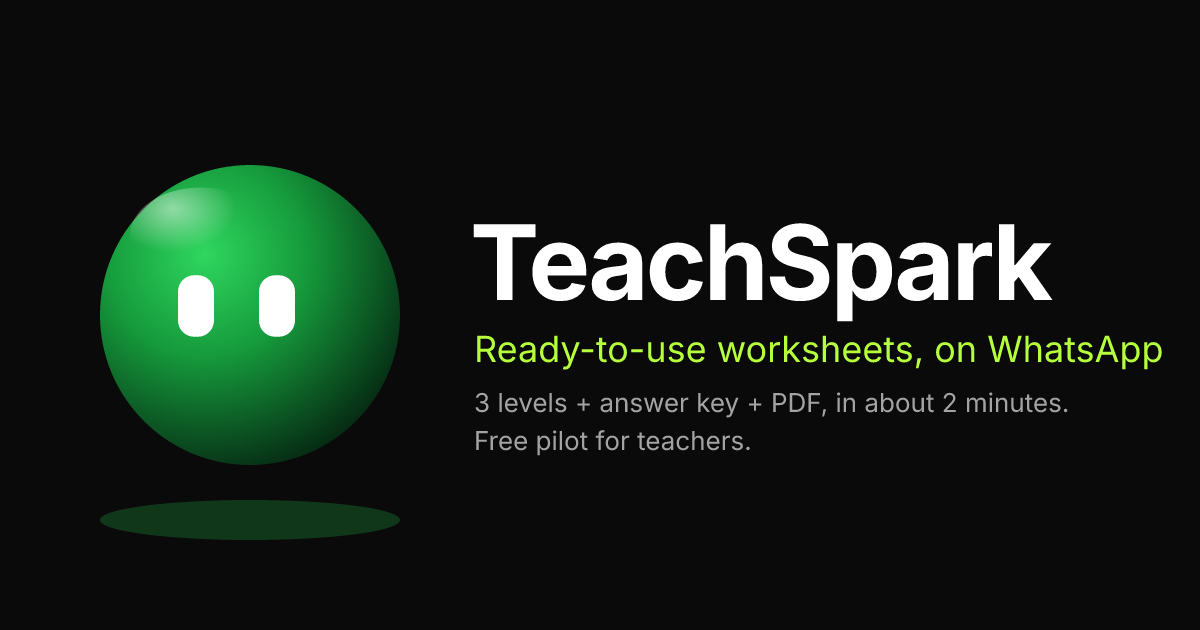
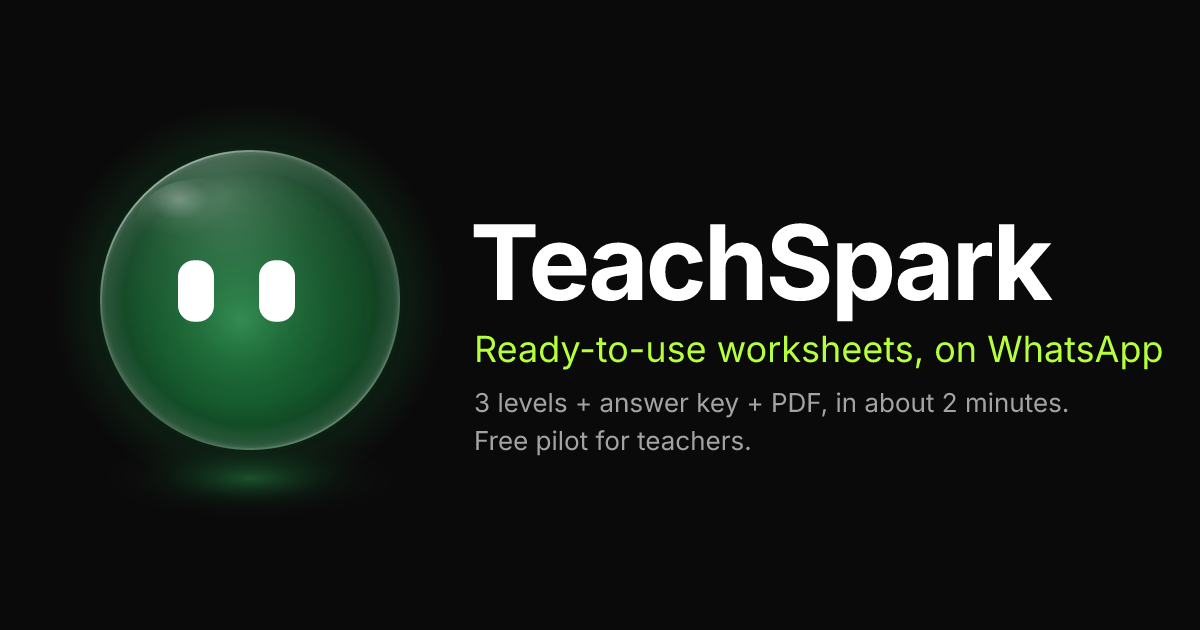
fix(nudges): arm the return nudge at activation, and stop discarding due nudges
Diagnosed from live production data: nudgesSent was 0 and only ONE nudge had
ever been scheduled across 10 teachers. Two separate faults, neither of them the
cron — the cron was running fine.

1. The nudge was armed only in completeSkillAndShare, which a teacher reaches
   only by answering BOTH the impact and the referral question. Most stop
   replying once they have the worksheet they came for. Live funnel: 6 received
   a worksheet, 2 answered impact, 1 answered referral. So one nudge existed and
   5 of 6 activated teachers could never be nudged at all. It is now armed at
   activation, guarded so it never overwrites a pending nudge or re-arms a sent
   one.

2. The sweep discarded the nudge for any teacher who was not IDLE, clearing
   nudgeDueAt and logging NOTHING. Every one of the 10 was parked in some
   AWAITING_* state, so the rule threw away every nudge that existed, invisibly —
   the database confirms the single scheduled nudge had been silently cleared.
   Being stalled mid-flow is exactly who a re-engagement nudge is for. The check
   is now on recent activity, not state: a nudge is already ~20h past her last
   message, so the only real risk is interrupting someone replying right now.
   That case DEFERS — reschedules and logs nudge_deferred — rather than dropping.

The paper-wizard carve-out stays: buildNudgeStep resets state to AWAITING_TOPIC,
which would throw away uploaded chapter photos.
[…]

Changed region(s): [[0.0617, 0.2413, 0.3392, 0.8746], [0.2775, 0.6032, 0.3083, 0.6635]]

diff --git a/scripts/brand-assets.ts b/scripts/brand-assets.ts
@@ -15,9 +15,71 @@ for (const f of FONT_FILES) if (!existsSync(f)) throw new Error(`missing font fi
 const BG = '#0a0a0a';
 const LIME = '#b6ff3b';
 
-/** Spark: the same gradients as web/src/components/spark/Spark.tsx, eyes looking slightly right. */
-function orb(cx: number, cy: number, r: number, id: string): string {
+/** The eyes, drawn identically in both variants. Offset right so the static orb looks alive. */
+function eyes(cx: number, cy: number, r: number): string {
   const ew = r * 0.24, eh = r * 0.41, rx = ew * 0.45;
+  return `
+  <rect x="${cx - r * 0.36 - ew / 2}" y="${cy - r * 0.06 - eh / 2}" width="${ew}" height="${eh}" rx="${rx}" fill="#fff"/>
+  <rect x="${cx + r * 0.18 - ew / 2}" y="${cy - r * 0.06 - eh / 2}" width="${ew}" height="${eh}" rx="${rx}" fill="#fff"/>`;
+}
+
+/**
+ * Translucent glass Spark, mirroring the gradients in web/src/components/spark/Spark.tsx so the
+ * link preview matches the page it links to. Offsets are expressed as fractions of `r`, which is
+ * how they map back: Spark's viewBox is 400 with r=150, so e.g. its halo at r=196 is 1.31r here.
+ *
+ * ONLY safe on a dark background. Every fill is partly transparent, so on transparency this
+ * renders as a faint smudge — which is why the icons below use the solid variant instead.
+ */
+function glassOrb(cx: number, cy: number, r: number, id: string): string {
+  return `
+  <defs>
+    <radialGradient id="${id}-body" cx="47%" cy="57%" r="96%">
+      <stop offset="0%" stop-color="#54ff92" stop-opacity=".44"/><stop offset="16%" stop-color="#2ecf66" stop-opacity=".38"/>
+      <stop offset="36%" stop-color="#179544" stop-opacity=".33"/><stop offset="60%" stop-color="#0d5b2b" stop-opacity=".30"/>
+      <stop offset="100%" stop-color="#0a2b18" stop-opacity=".32"/>
+    </radialGradient>
+    <radialGradient id="${id}-haze" cx="42%" cy="15%" r="72%">
+      <stop offset="0%" stop-color="#e8f4ec" stop-opacity=".26"/><stop offset="42%" stop-color="#95b8a4" stop-opacity=".10"/>
+      <stop offset="100%" stop-color="#000" stop-opacity="0"/>
+    </radialGradient>
+    <radialGradient id="${id}-edge" cx="50%" cy="50%" r="50%">
+      <stop offset="84%" stop-color="#e6fff0" stop-opacity="0"/><stop offset="96%" stop-color="#e6fff0" stop-opacity=".11"/>
+      <stop offset="100%" stop-color="#fff" stop-opacity=".24"/>
+    </radialGradient>
+    <linearGradient id="${id}-rim" x1="12%" y1="4%" x2="88%" y2="98%">
+      <stop offset="0%" stop-color="#f6fffa" stop-opacity=".62"/><stop offset="26%" stop-color="#a5e6bd" stop-opacity=".16"/>
+      <stop offset="60%" stop-color="#2c6f45" stop-opacity=".05"/><stop offset="86%" stop-color="#8fdcac" stop-opacity=".20"/>
+      <stop offset="100%" stop-color="#d8fbe6" stop-opacity=".34"/>
+    </linearGradient>
+    <radialGradient id="${id}-halo" cx="50%" cy="50%" r="50%">
+      <stop offset="55%" stop-color="#1cb14a" stop-opacity=".22"/><stop offset="100%" stop-color="#1cb14a" stop-opacity="0"/>
+    </radialGradient>
+    <radialGradient id="${id}-gloss" cx="32%" cy="24%" r="42%">
+      <stop offset="0%" stop-color="#fff" stop-opacity=".34"/><stop offset="55%" stop-color="#fff" stop-opacity=".06"/>
+      <stop offset="100%" stop-color="#fff" stop-opacity="0"/>
+    </radialGradient>
+    <radialGradient id="${id}-pool" cx="50%" cy="50%" r="50%">
+      <stop offset="0%" stop-color="#3ee071" stop-opacity=".30"/><stop offset="45%" stop-color="#17903f" stop-opacity=".14"/>
+      <stop offset="100%" stop-color="#000" stop-opacity="0"/>
+    </radialGradient>
+  </defs>
+  <circle cx="${cx}" cy="${cy}" r="${r * 1.31}" fill="url(#${id}-halo)"/>
+  <ellipse cx="${cx}" cy="${cy + r * 1.19}" rx="${r * 0.95}" ry="${r * 0.26}" fill="url(#${id}-pool)"/>
+  <circle cx="${cx}" cy="${cy}" r="${r}" fill="url(#${id}-body)"/>
+  <circle cx="${cx}" cy="${cy}" r="${r}" fill="url(#${id}-haze)"/>
+  <circle cx="${cx}" cy="${cy}" r="${r}" fill="url(#${id}-edge)"/>
+  <circle cx="${cx}" cy="${cy}" r="${r * 0.993}" fill="none" stroke="url(#${id}-rim)" stroke-width="${Math.max(1, r * 0.011)}"/>
+  <ellipse cx="${cx - r * 0.32}" cy="${cy - r * 0.52}" rx="${r * 0.44}" ry="${r * 0.29}" fill="url(#${id}-gloss)"/>
+  ${eyes(cx, cy, r)}`;
+}
+
+/**
+ * Solid Spark for the app icons. Deliberately NOT the glass treatment: the regular PWA icons are
+ * rendered on transparency and have to stay legible at 48px on a home screen, where a translucent
+ * sphere reads as a smudge.
+ */
+function solidOrb(cx: number, cy: number, r: number, id: string): string {
   return `
   <defs>
     <radialGradient id="${id}-body" cx="35%" cy="30%" r="75%"><stop offset="0%" stop-color="#2fd65f"/><stop offset="45%" stop-color="#169a3c"/><stop offset="100%" stop-color="#062b14"/></radialGradient>
@@ -25,8 +87,7 @@ function orb(cx: number, cy: number, r: number, id: string): string {
   </defs>
   <circle cx="${cx}" cy="${cy}" r="${r}" fill="url(#${id}-body)"/>
   <ellipse cx="${cx - r * 0.33}" cy="${cy - r * 0.53}" rx="${r * 0.47}" ry="${r * 0.32}" fill="url(#${id}-gloss)"/>
-  <rect x="${cx - r * 0.36 - ew / 2}" y="${cy - r * 0.06 - eh / 2}" width="${ew}" height="${eh}" rx="${rx}" fill="#fff"/>
-  <rect x="${cx + r * 0.18 - ew / 2}" y="${cy - r * 0.06 - eh / 2}" width="${ew}" height="${eh}" rx="${rx}" fill="#fff"/>`;
+  ${eyes(cx, cy, r)}`;
 }
 
 function render(svg: string, width: number, out: string): void {
@@ -41,8 +102,7 @@ mkdirSync(OUT_DIR, { recursive: true });
 // 1) Open Graph cover 1200x630
 const og = `<svg xmlns="http://www.w3.org/2000/svg" width="1200" height="630" viewBox="0 0 1200 630">
   <rect width="1200" height="630" fill="${BG}"/>
-  <ellipse cx="250" cy="520" rx="150" ry="20" fill="#1f8a3a" opacity=".35"/>
-  ${orb(250, 315, 150, 'og')}
+  ${glassOrb(250, 300, 150, 'og')}
   <text x="470" y="300" font-family="Inter" font-weight="700" font-size="104" fill="#fff" letter-spacing="-3">TeachSpark</text>
   <text x="474" y="362" font-family="Inter" font-weight="400" font-size="36" fill="${LIME}">Ready-to-use worksheets, on WhatsApp</text>
   <text x="474" y="412" font-family="Inter" font-weight="400" font-size="26" fill="#a3a3a3">3 levels + answer key + PDF, in about 2 minutes.</text>
@@ -59,7 +119,7 @@ const iconSvg = (size: number, padded: boolean) => {
   const r = padded ? size * 0.3 : size * 0.46;
   return `<svg xmlns="http://www.w3.org/2000/svg" width="${size}" height="${size}" viewBox="0 0 ${size} ${size}">
   ${padded ? `<rect width="${size}" height="${size}" fill="${BG}"/>` : ''}
-  ${orb(size / 2, size / 2, r, 'ic')}
+  ${solidOrb(size / 2, size / 2, r, 'ic')}
 </svg>`;
 };
 render(iconSvg(192, false), 192, resolve(OUT_DIR, 'pwa-192x192.png'));

diff --git a/test/nudges.test.ts b/test/nudges.test.ts
@@ -45,13 +45,34 @@ describe('createNudgePass', () => {
     expect(after?.nudgeDueAt).toEqual(PAST); // preserved, not cleared
     expect((deps.messenger as FakeMessenger).sent).toHaveLength(0);
   });
-  it('skips teachers who are mid-conversation (clears the due nudge)', async () => {
+  it('nudges a teacher stalled mid-flow instead of discarding her nudge', async () => {
+    // This used to drop the nudge for ANY non-IDLE teacher. In the live pilot all 10 teachers were
+    // parked in some AWAITING_* state, so that rule silently discarded every nudge there was.
+    // Being stalled mid-flow is precisely who a re-engagement nudge is for.
     const deps = makeDeps();
-    const t = await deps.teachers.create({ waFrom: 'whatsapp:+912', waId: null, profileName: null, now: PAST });
-    await deps.teachers.update(t.id, { state: 'AWAITING_TOPIC', grade: 'g', subject: 's', board: 'b', skillsCompleted: ['worksheet'], nudgeDueAt: PAST, nudgeSentAt: null });
-    expect(await createNudgePass(deps)()).toBe(0);
+    const STALE = new Date(NOW.getTime() - 20 * 3600_000);
+    const t = await deps.teachers.create({ waFrom: 'whatsapp:+912', waId: null, profileName: null, now: STALE });
+    await deps.teachers.update(t.id, { state: 'AWAITING_TOPIC', grade: 'g', subject: 's', board: 'b', skillsCompleted: ['worksheet'], nudgeDueAt: PAST, nudgeSentAt: null, lastInboundAt: STALE });
+    expect(await createNudgePass(deps)()).toBe(1);
     const after = await deps.teachers.findByWaFrom('whatsapp:+912');
-    expect(after?.nudgeDueAt).toBeNull();
+    expect(after?.nudgeSentAt).toEqual(NOW);
+    expect((deps.events as InMemoryEventLog).names()).toContain(EVENT.nudge_sent);
+  });
+
+  it('defers rather than drops when she messaged moments ago, and says so in the event log', async () => {
+    // The one case the old state check was really protecting against: do not interrupt someone
+    // who is replying right now. Deferring reschedules; it must never null the due date, which is
+    // what made the old drop invisible and permanent.
+    const deps = makeDeps();
+    const RECENT = new Date(NOW.getTime() - 5 * 60_000);
+    const t = await deps.teachers.create({ waFrom: 'whatsapp:+913', waId: null, profileName: null, now: RECENT });
+    await deps.teachers.update(t.id, { state: 'AWAITING_TOPIC', grade: 'g', subject: 's', board: 'b', skillsCompleted: ['worksheet'], nudgeDueAt: PAST, nudgeSentAt: null, lastInboundAt: RECENT });
+    expect(await createNudgePass(deps)()).toBe(0);
+    const after = await deps.teachers.findByWaFrom('whatsapp:+913');
+    expect(after?.nudgeDueAt).not.toBeNull();                       // rescheduled, not discarded
+    expect(after?.nudgeDueAt!.getTime()).toBeGreaterThan(NOW.getTime());
+    expect(after?.nudgeSentAt).toBeNull();
+    expect((deps.events as InMemoryEventLog).names()).toContain(EVENT.nudge_deferred);
     expect((deps.messenger as FakeMessenger).sent).toHaveLength(0);
   });
   it('skips teachers with no remaining skill', async () => {

diff --git a/src/jobs/nudges.ts b/src/jobs/nudges.ts
@@ -1,6 +1,7 @@
 import cron from 'node-cron';
 import { Executor, type ExecutorDeps } from '../bot/executor.js';
 import { buildNudgeStep } from '../bot/machine.js';
+import { computeNudgeDueAt } from '../bot/nudge.js';
 import { hasNextSkill } from '../bot/skills.js';
 import { EVENT } from '../domain/events.js';
 import { isPaperState } from '../domain/types.js';
@@ -15,6 +16,12 @@ export interface NudgePass {
   /** Resolves once no sweep is in flight (immediately, with 0, if already idle). Never rejects. */
   whenIdle(): Promise<number>;
 }
+
+/**
+ * A teacher who messaged within this window is treated as mid-conversation, so her nudge is
+ * pushed out instead of fired. Everyone else gets nudged whatever state they are parked in.
+ */
+const ACTIVE_WINDOW_MS = 2 * 60 * 60 * 1000;
 
 export function createNudgePass(deps: ExecutorDeps): NudgePass {
   const executor = new Executor(deps);
@@ -35,10 +42,22 @@ export function createNudgePass(deps: ExecutorDeps): NudgePass {
           await deps.teachers.update(t.id, { nudgeDueAt: null });
           continue;
         }
-        if (t.state !== 'IDLE') {
-          if (isPaperState(t.state)) continue; // parked mid-paper-wizard: keep the nudge; it fires when she returns to IDLE
-          // mid-core-conversation: don't interrupt; drop this nudge
-          await deps.teachers.update(t.id, { nudgeDueAt: null });
+        // Parked mid-paper-wizard: keep the nudge pending rather than sending. buildNudgeStep
+        // resets state to AWAITING_TOPIC, which would throw away her uploaded chapter photos.
+        if (isPaperState(t.state)) continue;
+
+        // Being mid-flow is NOT a reason to discard the nudge. This used to drop any non-IDLE
+        // teacher, and in the live pilot every single one of the 10 was parked in some AWAITING_*
+        // state — so the rule discarded every nudge that existed, silently, logging nothing.
+        //
+        // What actually matters is whether she is in a conversation RIGHT NOW. A nudge that is
+        // due is already ~20h past her last message, so the only real risk is interrupting
+        // someone who has just started replying again.
+        const sinceInbound = t.lastInboundAt ? now.getTime() - t.lastInboundAt.getTime() : Infinity;
+        if (sinceInbound < ACTIVE_WINDOW_MS) {
+          const dueAt = computeNudgeDueAt(t.lastInboundAt ?? now, deps.timezone);
+          await deps.teachers.update(t.id, { nudgeDueAt: dueAt });
+          await deps.events.log(t.id, { name: EVENT.nudge_deferred, properties: { dueAt: dueAt.toISOString(), sinceInboundMs: sinceInbound } }, now);
           continue;
         }
         await executor.runStep(t, buildNudgeStep(t, now));

diff --git a/src/bot/machine.ts b/src/bot/machine.ts
@@ -238,7 +238,7 @@ export function transition(ctx: MachineContext): Step {
   }
 }
 
-export function afterGeneration(t: Teacher, outcome: GenerationOutcome, now: Date): Step {
+export function afterGeneration(t: Teacher, outcome: GenerationOutcome, now: Date, timezone = 'Asia/Kolkata'): Step {
   const skillId = t.currentSkillId ?? nextSkillFor(t.skillsCompleted);
   const skill = SKILLS[skillId];
   const topic = t.pendingTopic ?? '';
@@ -271,6 +271,21 @@ export function afterGeneration(t: Teacher, outcome: GenerationOutcome, now: Dat
   if (!t.activatedAt) {
     step.updates.activatedAt = now;
     step.events.push({ name: EVENT.activated, skillId });
+  }
+  // Schedule the return nudge HERE, at activation, not at skill completion.
+  //
+  // Completion requires answering both the impact and the referral question, and most teachers
+  // stop replying once they have their worksheet — the reason they came. In the live pilot 6
+  // people received a worksheet, 2 answered impact and 1 answered referral, so exactly one nudge
+  // was ever scheduled and 5 of 6 activated teachers could never be nudged at all.
+  //
+  // Guarded on both fields so this cannot spam: it never overwrites a nudge already pending, and
+  // never re-arms one that has already been sent. completeSkillAndShare still re-arms on its own
+  // terms by clearing nudgeSentAt.
+  if (!t.nudgeSentAt && !t.nudgeDueAt) {
+    const dueAt = computeNudgeDueAt(now, timezone);
+    step.updates.nudgeDueAt = dueAt;
+    step.events.push({ name: EVENT.nudge_scheduled, skillId, properties: { dueAt: dueAt.toISOString(), trigger: 'activation' } });
   }
   Object.assign(step.updates, { state: 'AWAITING_IMPACT', retries: 0 } satisfies TeacherUpdate);
   return step;

diff --git a/test/machine.test.ts b/test/machine.test.ts
@@ -184,6 +184,24 @@ describe('afterGeneration', () => {
     expect(s.updates).toMatchObject({ state: 'AWAITING_IMPACT', activatedAt: NOW, retries: 0 });
     expect(names(s)).toEqual(expect.arrayContaining([EVENT.worksheet_delivered, EVENT.pdf_delivered, EVENT.reusable_prompt_sent, EVENT.impact_prompt_sent, EVENT.activated]));
   });
+  it('arms the return nudge at activation, not only at skill completion', () => {
+    // The whole point of the fix: completion needs both the impact AND referral answers, and most
+    // teachers stop replying once they have the worksheet they came for. In the live pilot 6
+    // activated and 1 completed, so 5 of 6 could never be nudged at all.
+    const s = afterGeneration(t, { ok: true, result, pdfUrl: null }, NOW);
+    expect(names(s)).toContain(EVENT.nudge_scheduled);
+    expect(s.updates.nudgeDueAt).toBeInstanceOf(Date);
+    expect(s.updates.nudgeDueAt!.getTime()).toBeGreaterThan(NOW.getTime());
+  });
+
+  it('does not arm a second nudge over a pending one, or re-arm one already sent', () => {
+    // Guards against nudge spam for a teacher who generates several worksheets in a row.
+    const pending = afterGeneration({ ...t, nudgeDueAt: NOW }, { ok: true, result, pdfUrl: null }, NOW);
+    expect(names(pending)).not.toContain(EVENT.nudge_scheduled);
+    const alreadyNudged = afterGeneration({ ...t, nudgeSentAt: NOW }, { ok: true, result, pdfUrl: null }, NOW);
+    expect(names(alreadyNudged)).not.toContain(EVENT.nudge_scheduled);
+  });
+
   it('does not re-activate and notes a missing pdf', () => {
     const s = afterGeneration({ ...t, activatedAt: NOW }, { ok: true, result, pdfUrl: null }, NOW);
     expect(s.updates.activatedAt).toBeUndefined();

diff --git a/test/qa-conversation.test.ts b/test/qa-conversation.test.ts
@@ -86,7 +86,12 @@ describe('QA Case 2 — simulated full conversation (pure machine, no I/O)', () 
       EVENT.message_received, EVENT.subject_captured,
       EVENT.message_received, EVENT.board_captured, EVENT.onboarding_completed, EVENT.microlesson_sent,
       EVENT.message_received, EVENT.topic_provided,
+      // nudge_scheduled now fires HERE, at activation, as well as at completion below. The return
+      // nudge used to be armed only on completion, which requires answering both the impact and
+      // referral questions — in the live pilot 6 teachers activated, 1 completed, so 5 could never
+      // be nudged. Arming at activation is the fix; the completion one re-arms for the next skill.
       EVENT.worksheet_delivered, EVENT.pdf_delivered, EVENT.reusable_prompt_sent, EVENT.impact_prompt_sent, EVENT.activated,
+      EVENT.nudge_scheduled,
       EVENT.message_received, EVENT.impact_reported,
       EVENT.message_received, EVENT.referral_reported, EVENT.skill_completed, EVENT.share_cta_sent, EVENT.nudge_scheduled,
     ];

diff --git a/src/domain/events.ts b/src/domain/events.ts
@@ -25,6 +25,10 @@ export const EVENT = {
   nudge_scheduled: 'nudge_scheduled',
   nudge_sent: 'nudge_sent',
   nudge_failed: 'nudge_failed',
+  /** A due nudge was postponed because the teacher is mid-conversation. Emitted so a nudge that
+   *  does not fire is visible in metrics instead of vanishing, which is how the old silent drop
+   *  hid the fact that every nudge in the pilot was being discarded. */
+  nudge_deferred: 'nudge_deferred',
   nudge_reopened: 'nudge_reopened',
   help_requested: 'help_requested',
   restarted: 'restarted',

diff --git a/src/bot/executor.ts b/src/bot/executor.ts
@@ -120,7 +120,7 @@ export class Executor {
       }
       outcome = { ok: false, reason: refused ? 'refusal' : 'error' };
     }
-    const followUp = afterGeneration(teacher, outcome, d.clock.now());
+    const followUp = afterGeneration(teacher, outcome, d.clock.now(), d.timezone);
     return this.runStep(teacher, followUp);
   }
 
